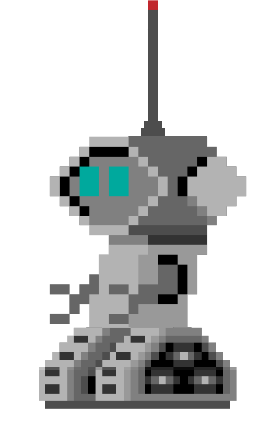
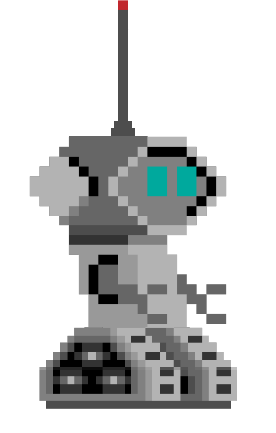
Fix responsiveness

diff --git a/src/components/PixelCard.vue b/src/components/PixelCard.vue
@@ -5,12 +5,12 @@ const props = defineProps(["text"])
 <template>
   <div class="relative">
     <div class="z-10">
-    <svg width="315" height="361" viewBox="0 0 315 361" fill="none" xmlns="http://www.w3.org/2000/svg">
+    <svg class="w-full h-full" width="315" height="361" viewBox="0 0 315 361" fill="none" xmlns="http://www.w3.org/2000/svg">
       <path d="M5 331.5V336.5H10H24.5V350.5V355.5H29.5H285H290V350.5V336.5H305H310V331.5V30V25H305H290V10V5H285H29.5H24.5V10V25H10H5V30V331.5Z" fill="#E48832" stroke="#BA691D" stroke-width="10"/>
     </svg>
     <p class="absolute top-1/2 -translate-y-1/2 left-1/2 -translate-x-1/2 text-center font-pixel">{{text}}</p>
     </div>
-    <svg class="-z-10 absolute top-2 left-2" width="315" height="361" viewBox="0 0 315 361" fill="none" xmlns="http://www.w3.org/2000/svg">
+    <svg class="-z-10 absolute top-2 left-2 w-full h-full" width="315" height="361" viewBox="0 0 315 361" fill="none" xmlns="http://www.w3.org/2000/svg">
       <path class="stroke-[#A6A6A6] fill-[#A6A6A6]" d="M5 331.5V336.5H10H24.5V350.5V355.5H29.5H285H290V350.5V336.5H305H310V331.5V30V25H305H290V10V5H285H29.5H24.5V10V25H10H5V30V331.5Z" fill="#E48832" stroke="#BA691D" stroke-width="10"/>
     </svg>
   </div>

diff --git a/src/components/Header.vue b/src/components/Header.vue
@@ -3,18 +3,18 @@
 </script>
 
 <template>
-  <header class="sticky z-50 top-0 bg-[#BA691D] w-full h-12 flex flex-row justify-around items-center">
+  <header class="sticky z-[100] top-0 bg-[#BA691D] w-full h-12 flex flex-row justify-around items-center">
     <div></div>
-    <div class="flex flex-row justify-around gap-x-32 font-pixel text-white">
+    <div class="flex flex-row w-full justify-around font-pixel text-white">
     <router-link to="/">Home</router-link>
     <router-link to="/game">Game</router-link>
     <router-link to="/about">About</router-link>
     </div>
-    <div class="text-white font-pixel">Login</div>
+<!--    <div class="text-white font-pixel">Login</div>-->
 
   </header>
-  <div class="sticky z-50 top-12 w-full h-2 bg-[#D7873C]"></div>
-  <div class="sticky z-50 top-14 w-full h-2 bg-[#EFA866]"></div>
+  <div class="sticky z-[100] top-12 w-full h-2 bg-[#D7873C]"></div>
+  <div class="sticky z-[100] top-14 w-full h-2 bg-[#EFA866]"></div>
 
 </template>
 

diff --git a/server.js b/server.js
@@ -2,10 +2,10 @@ const app = require("express")();
 const http = require("http").Server(app);
 const io = require("socket.io")(http,{
     cors: {
-        origin: "http://localhost:5173"
+        origin: ["https://socksonbots.de", "https://vueonbots.onrender.com", "http://192.168.178.20:5173", "http://localhost:5173"]
     }
 });
-const path = require("path");
+// const path = require("path");
 
 app.get("/", (req, res) => {
     res.send("<h1>Server running</h1>");
@@ -28,7 +28,7 @@ io.on("connection", function (socket) {
     socket.on("direction", (data) => {
         socket.broadcast.emit("direction", data);
         console.log("direction method");
-        console.log(data);
+        // console.log(data);
     });
 
     socket.on("playerXY", (data) => {

diff --git a/src/components/GameComponent.vue b/src/components/GameComponent.vue
@@ -57,10 +57,10 @@ function showCode() {
 </script>
 
 <template>
-  <div class="flex xl:flex-row flex-col justify-center items-center xl:items-start my-24 mx-16">
-  <Game class="shrink" :playGame="playGame" :blockList="receivedBlocklist" />
+  <div class="flex xl:flex-row flex-col justify-start items-center xl:items-start my-24 mx-16">
+  <Game :playGame="playGame" :blockList="receivedBlocklist" />
   <BlocklyComponent
-      class=" w-full max-w-[960px] h-96 shrink-0 grow-0"
+      class="w-full max-w-[960px] xl:max-w-xl h-96 shrink grow-0"
       id="blockly"
       :options="options"
       ref="foo"

diff --git a/src/components/HeroBanner.vue b/src/components/HeroBanner.vue
@@ -9,9 +9,8 @@ import PixelButton from "@/components/PixelButton.vue";
     <img
       src="@/assets/robot.png"
       alt="Roboter in Pixelart"
-      class="-scale-x-100"
     />
-    <div class="flex flex-col gap-16 items-start px-16 pt-24 md:p-0 my-12">
+    <div class="flex flex-col gap-16 items-start px-16 md:p-0 my-12">
       <h2 class="font-pixel text-gray-800 text-[10vw] sm:leading-snug sm:text-6xl">Lost your sock lately?</h2>
       <router-link to="/game">
         <PixelButton text="Get it back!"/>

diff --git a/src/components/PixelButton.vue b/src/components/PixelButton.vue
@@ -3,8 +3,8 @@ const props = defineProps(["text"]);
 </script>
 
 <template>
-  <div class="relative flex items-center flex-col cursor-pointer w-max">
-    <img src="@/assets/button.svg" alt="Pixelart Button" />
+  <div class="relative flex items-center justify-center cursor-pointer">
+    <img class="w-1/22 h-auto" src="@/assets/button.svg" alt="Pixelart Button" />
     <p
       class="absolute w-full top-1/2 left-1/2 -translate-x-1/2 -translate-y-1/2 text-center font-pixel"
     >

diff --git a/src/socket.js b/src/socket.js
@@ -9,7 +9,7 @@ export const state = reactive({
 
 // "undefined" means the URL will be computed from the `window.location` object
 const URL =
-  process.env.NODE_ENV === "production" ? "https://socket-server-3jgo.onrender.com" : "http://localhost:3010";
+  process.env.NODE_ENV === "production" ? "https://socket-server-3jgo.onrender.com" : "http://192.168.178.20:3010";
 
 export const socket = io(URL, {
   autoConnect: true,

diff --git a/src/components/PhaserContainer.vue b/src/components/PhaserContainer.vue
@@ -1,5 +1,5 @@
 <template>
-  <div class="" :id="containerId" />
+  <div class="game-container" :id="containerId" />
 <!--  <div class="bg-amber-600">{{ playGame }}</div>-->
 </template>
 
@@ -31,3 +31,9 @@ onUnmounted(() => {
   gameInstance?.destroy(false);
 });
 </script>
+
+<style>
+.game-container > canvas {
+  width: 100%;
+}
+</style>

diff --git a/index.html b/index.html
@@ -5,7 +5,7 @@
   <head>
     <meta charset="UTF-8" />
     <meta http-equiv="X-UA-Compatible" content="IE=edge">
-    <link rel="icon" href="/favicon.ico" />
+    <link rel="icon" href="/socke.ico" />
     <meta name="viewport" content="width=device-width, initial-scale=1.0" />
     <title>Vite App</title>
   </head>

diff --git a/src/components/BlocklyComponent.vue b/src/components/BlocklyComponent.vue
@@ -69,8 +69,8 @@ function runCode() {
 </script>
 
 <template>
-  <div class="">
-    <div class="h-full w-full" ref="blocklyDiv"></div>
+  <div class="w-full">
+    <div class="h-full" ref="blocklyDiv"></div>
     <div ref="blocklyToolbox">
       <slot></slot>
     </div>

diff --git a/src/App.vue b/src/App.vue
@@ -72,4 +72,6 @@ function showCode() {
   -moz-osx-font-smoothing: grayscale;
   color: #2c3e50;
 }
+
+//body{ overflow-x: hidden}
 </style>
